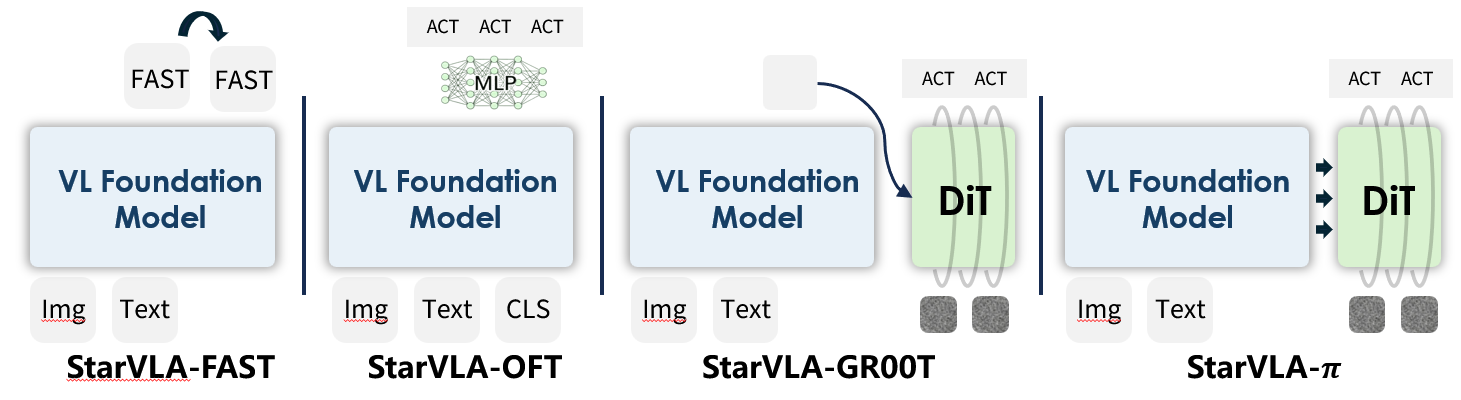
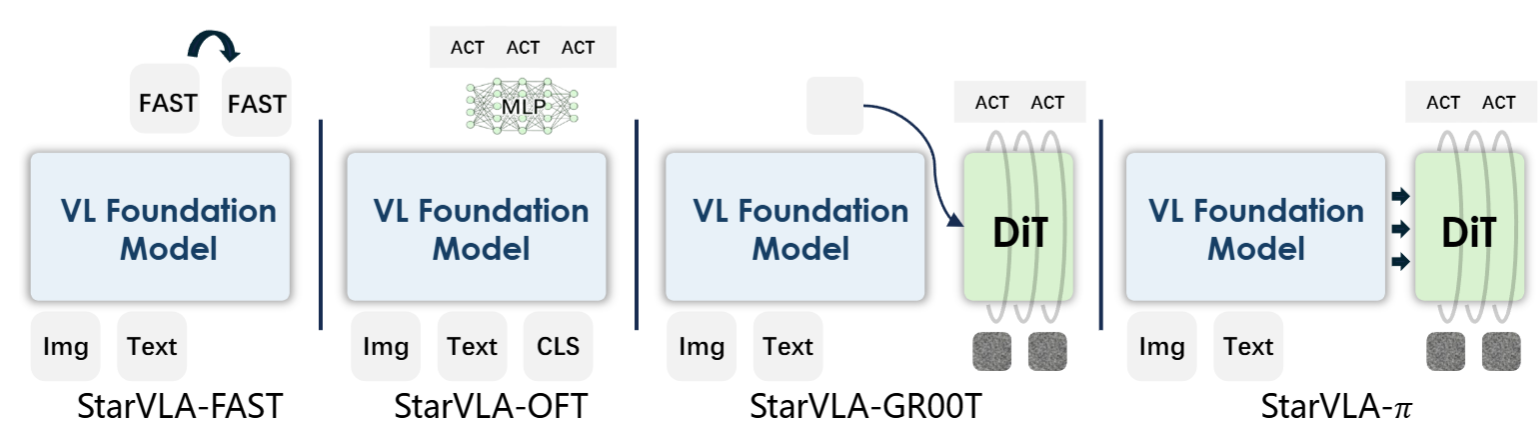
[docs] Revamp README layout

diff --git a/README.md b/README.md
@@ -30,10 +30,10 @@ Training configs and efficiency benchmarks for community reference.
 
 **[2026/01/29]** Calvin benchmark experiments were conducted by the UNT team. For inquiries, please contact Zhijie Song (1600013008@pku.edu.cn) or Feng Yan (bphengyan@163.com).
 
+**[2025/12/25]** We've simultaneously established pipelines for [Behavior-1K](examples/Behavior), [RoboTwin 2.0](examples/Robotwin), and CALVIN. We'd love to collaborate and share baseline results for more benchmarks with the community!
+
 <details>
 <summary><b>Prior Timeline</b></summary>
-
-**[2025/12/25]** We've simultaneously established pipelines for [Behavior-1K](examples/Behavior), [RoboTwin 2.0](examples/Robotwin), and CALVIN. We'd love to collaborate and share baseline results for more benchmarks with the community!
 
 **[2025/12/25]**  We've released RoboCasa evaluation support, which was trained **without pretraining and reached SOTA performance**. Check out more details in [examples/Robocasa_tabletop](examples/Robocasa_tabletop).
 
@@ -48,23 +48,6 @@ Training configs and efficiency benchmarks for community reference.
 **[2025/10/25]:** We fixed several script links and so everything is smoother now. Thanks to the community for the feedback.
 
 </details>
-
----
-
-## Table of Contents
-
-- [News](#news)
-- [Overview and Key Features](#overview-and-key-features)
-- [Installation](#installation)
-- [Quick Start](#quick-start)
-- [Benchmark Results](#benchmark-results)
-- [Model Zoo](#model-zoo)
-- [Start Building Your VLA Like Lego!](#start-building-your-vla-like-lego)
-- [FAQ](#faq)
-- [Contributing](#contributing)
-- [Citation & Copyright](#citation--copyright)
-- [Acknowledgements](#acknowledgements)
-- [Star History](#star-history)
 
 ## Overview and Key Features
 
@@ -102,7 +85,7 @@ Every recipe is paradigm-agnostic and applies uniformly to all supported framewo
 <details open>
 <summary><b>Broad Benchmark Integration</b></summary>
 
-Unified server-client interface for both simulation and real-robot deployment.
+Achieve **state-of-the-art (SOTA) performance** on a variety of benchmarks, as follows:
 
 - [x] **SimplerEnV**
 - [x] **LIBERO**
@@ -300,7 +283,7 @@ Parameters are passed primarily via extensible dicts, allowing overrides and con
 </details>
 
 
-🧪 *To self‑test and iterate on StarVLA's usability, we re‑implemented several representative VLA frameworks. We have done a beta test: an internal developer can stand up a new VLA framework in under half a day (less than 3 hours), and a new user can build their first custom VLA framework within a single day. More design insights for each item can be found in *[*assets/intro_v1.md*](assets/intro_v1.md)*.*
+<!-- 🧪 *To self‑test and iterate on StarVLA's usability, we re‑implemented several representative VLA frameworks. We have done a beta test: an internal developer can stand up a new VLA framework in under half a day (less than 3 hours), and a new user can build their first custom VLA framework within a single day. More design insights for each item can be found in *[*assets/intro_v1.md*](assets/intro_v1.md)*.* -->
 
 ---
 
@@ -310,13 +293,6 @@ See [docs/faq.md](docs/faq.md) for common questions on configuration, freezing, 
 
 ## Contributing
 
-StarVLA is built by the community, for the community. Here's how you can get involved:
-
-- **Report a bug** — Open an [Issue](https://github.com/starVLA/starVLA/issues). If it needs more context, start a Discussion.
-- **Propose a feature or improvement** — Please align scope via an Issue or a short sync through our [Cooperation Form](https://forms.gle/R4VvgiVveULibTCCA) before submitting a PR.
-- **Need help or want to brainstorm?** — Fill out the [Cooperation Form](https://forms.gle/R4VvgiVveULibTCCA). We host office hours every Friday afternoon.
-- **Before submitting a PR**, run `make check` locally to pass formatting and lint.
-
 Community contributors are the driving force behind StarVLA's growing ecosystem. We deeply appreciate every PR, bug fix, and piece of feedback from the open-source community — your efforts keep StarVLA evolving rapidly. A full, continuously updated contributor list is maintained at [starvla.github.io/contributors](https://starvla.github.io/contributors).
 
 Thanks to all the people who have contributed to StarVLA:
@@ -324,6 +300,8 @@ Thanks to all the people who have contributed to StarVLA:
 <a href="https://github.com/starVLA/starVLA/graphs/contributors">
 <img src="https://contrib.rocks/image?repo=starVLA/starVLA&max=100&columns=15" />
 </a>
+
+See [docs/CONTRIBUTING.md](docs/CONTRIBUTING.md) for guidelines on reporting bugs, proposing features, and submitting PRs.
 
 ### Projects Based on StarVLA
 
@@ -339,22 +317,17 @@ Thanks to all the people who have contributed to StarVLA:
 
 ## Citation & Copyright
 
-
 StarVLA is released under the MIT License, which permits commercial use, modification, distribution, and private use. Rebases are allowed for forks and feature branches; when rebasing from upstream StarVLA, use descriptive commit messages (e.g., "chore: rebase from StarVLA") and keep at least the two latest upstream commits as separate. See [License](LICENSE) for details.
-
 
 ```
 @misc{starvla2025,
   title        = {StarVLA: A Lego-like Codebase for Vision-Language-Action Model Developing},
   author       = {starVLA Contributors},
   year         = {2025},
-  month        = {1},
-  version      = {1.2.0},
   url          = {https://github.com/starVLA/starVLA},
   doi          = {10.5281/zenodo.18264214},
   howpublished = {GitHub repository},
-  publisher    = {GitHub},
-  keywords     = {vision-language-action, robot-learning, modular-framework}
+  publisher    = {GitHub}
 }
 ```
 
@@ -366,6 +339,7 @@ This project draws inspiration and references from several notable open-source i
 - [Qwen-VL](https://github.com/QwenLM/Qwen3-VL/tree/main)
 - [InternVL](https://github.com/OpenGVLab/InternVL)
 - [ABot-Manipulation](https://github.com/amap-cvlab/ABot-Manipulation)
+
 The codebase was originally forked from [InternVLA-M1](https://github.com/InternRobotics/InternVLA-M1).
 
 ## Star History

diff --git a/docs/CONTRIBUTING.md b/docs/CONTRIBUTING.md
@@ -1,0 +1,8 @@
+# Contributing to StarVLA
+
+StarVLA is built by the community, for the community. Here's how you can get involved:
+
+- **Report a bug** — Open an [Issue](https://github.com/starVLA/starVLA/issues). If it needs more context, start a Discussion.
+- **Propose a feature or improvement** — Please align scope via an Issue or a short sync through our [Cooperation Form](https://forms.gle/R4VvgiVveULibTCCA) before submitting a PR.
+- **Need help or want to brainstorm?** — Fill out the [Cooperation Form](https://forms.gle/R4VvgiVveULibTCCA). We host office hours every Friday afternoon.
+- **Before submitting a PR**, run `make check` locally to pass formatting and lint.
